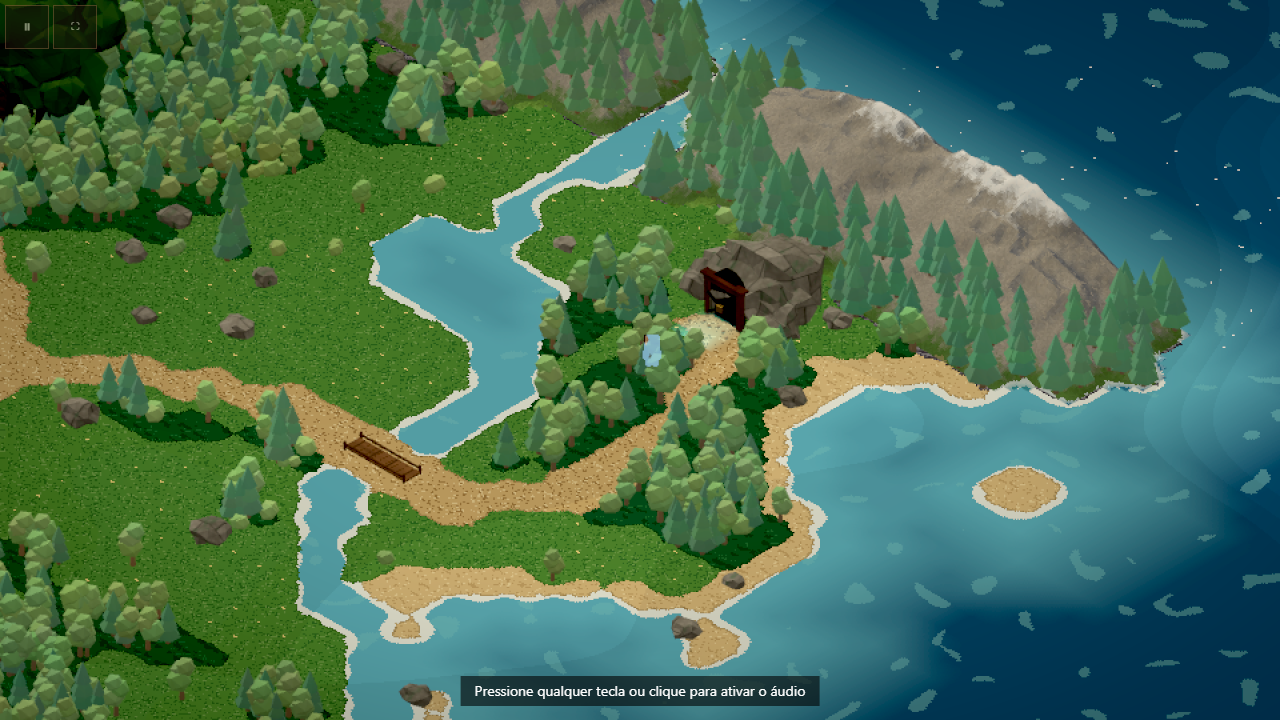
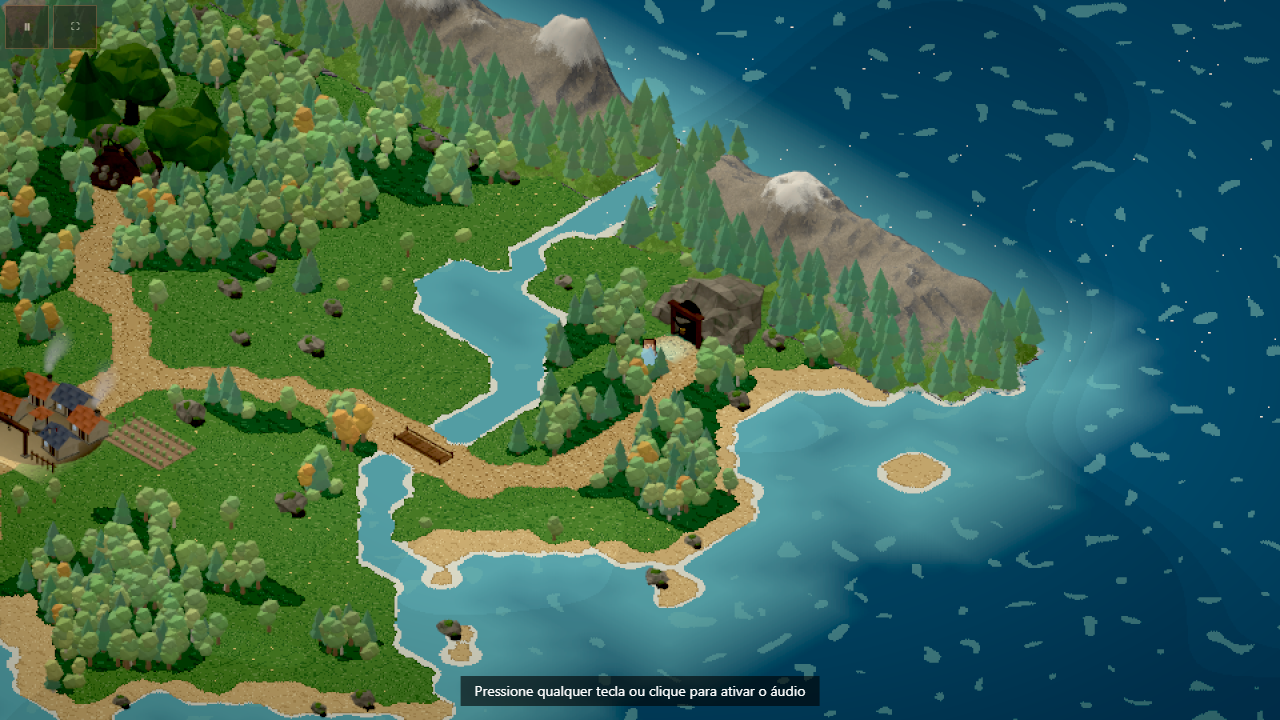
v0.1.3: refinos do mundo (campos de cultivo, rochas com musgo, moldura, bosque), docs de níveis do mundo

diff --git a/src/motor/terreno_mundo_relevo.js b/src/motor/terreno_mundo_relevo.js
@@ -88,7 +88,7 @@ export function gerarTerreno(mapaDados, cfgT = {}) {
     } else if (venc === 'montanha') {
       const h = alturaEm(x, z), luz = luzDe(x, z), estrato = Math.sin((h * 9 + fbm(x * 4, z * 4, semente + 40) * 3) * 3) * 0.05, rocha = tom(escolher(cores.rocha, fbm(x * 5, z * 5, semente + 41)), 1);
       const l = lim(0.5 + luz * 0.65 + estrato, 0, 1.05); cor = l > 0.5 ? misturar(rocha, cores.luz, (l - 0.5) * 1.5) : misturar(cores.sombra, rocha, l * 2);
-      const sopé = 1 - lim(h / (alturaMax * 0.2) + (fbm(x * 6, z * 6, semente + 42) - 0.5) * 0.7); if (sopé > 0.3) cor = misturar(cor, tom(cores.sopé, 0.8 + 0.3 * l), lim((sopé - 0.3) / 0.5));
+      const sopé = 1 - lim(h / (alturaMax * 0.34) + (fbm(x * 6, z * 6, semente + 42) - 0.5) * 0.6); if (sopé > 0.2) { const verde = misturar(tom(cores.sopé, 0.62), tom(escolher(cores.grama, fbm(x * 4, z * 4, semente + 44)), 1.08), lim(l * 1.1)); cor = misturar(cor, verde, lim((sopé - 0.2) / 0.35)); } // COLINAS: encosta baixa verde, redonda, com luz de forma
       const neve = (h - limiteNeve) / (alturaMax * 0.1) + (fbm(x * 7, z * 7, semente + 43) - 0.5) * 1.2; if (neve > 0) cor = misturar(cor, tom(cores.neve, 0.78 + 0.28 * lim(luz + 0.4)), lim(neve));
       cor = tom(cor, 0.96 + fino * 0.08);
     } else {
@@ -165,6 +165,44 @@ export function geometriaFloresta(posicoes) {
   const geo = new THREE.BufferGeometry(); geo.setAttribute('position', new THREE.Float32BufferAttribute(pos, 3)); geo.setAttribute('normal', new THREE.Float32BufferAttribute(nor, 3)); geo.setAttribute('color', new THREE.Float32BufferAttribute(cor, 3)); return geo;
 }
 
+
+// ----------------------------------------------------------------------------------------------------------------------------------------------
+/** Campos de cultivo (R12): até 3 canteiros de 3×2 tiles em grama plana perto da vila, com sulcos de terra e fileiras de plantas (trigo, repolho, abóbora). Não bloqueiam: ficam rente ao chão. */
+export function camposCultivo(t, vila, dens = 1) {
+  const { L, A, papelEm, semente } = t, pos = [], nor = [], cor = [], achados = [];
+  const livre = (x0, z0, w, d) => { for (let j = -1; j <= d; j++) for (let i = -1; i <= w; i++) { const p = papelEm(x0 + i, z0 + j); if (p !== 'grama') return false; } return true; };
+  for (let r = 4; r <= 9 && achados.length < Math.max(1, Math.round(3 * dens)); r++) for (let a = 0; a < 16 && achados.length < 3; a++) {
+    const ang = (a / 16) * Math.PI * 2 + r * 0.7, x0 = Math.round(vila.x + Math.cos(ang) * r) - 1, z0 = Math.round(vila.z + Math.sin(ang) * r * 0.8) - 1, w = a % 2 ? 3 : 2, d = a % 2 ? 2 : 3;
+    if (x0 < 1 || z0 < 1 || x0 + w >= L - 1 || z0 + d >= A - 1 || !livre(x0, z0, w, d) || achados.some((q) => Math.abs(q.x0 - x0) < 5 && Math.abs(q.z0 - z0) < 5)) continue;
+    achados.push({ x0, z0, w, d });
+  }
+  if (!achados.length) return null;
+  const caixa = (cx, cy, cz, sx, sy, sz, c) => { const g = new THREE.BoxGeometry(sx, sy, sz).translate(cx, cy, cz).toNonIndexed(); g.computeVertexNormals(); const p = g.attributes.position.array, n = g.attributes.normal.array; for (let i = 0; i < p.length; i += 3) { pos.push(p[i], p[i + 1], p[i + 2]); nor.push(n[i], n[i + 1], n[i + 2]); const k = 0.92 + (p[i + 1] - cy) / sy * 0.2; cor.push(c[0] * k, c[1] * k, c[2] * k); } g.dispose(); };
+  const CULT = [[0.9, 0.78, 0.3], [0.38, 0.62, 0.22], [0.9, 0.5, 0.15]];
+  achados.forEach((c, n) => {
+    const cult = CULT[n % CULT.length], alongaX = c.w >= c.d;
+    caixa(c.x0 + c.w / 2, 0.015, c.z0 + c.d / 2, c.w, 0.03, c.d, [0.45, 0.31, 0.2]); // terra arada
+    const linhas = alongaX ? c.d * 2 : c.w * 2;
+    for (let l = 0; l < linhas; l++) {
+      const off = (l + 0.5) / 2, passos = (alongaX ? c.w : c.d) * 3;
+      caixa(alongaX ? c.x0 + c.w / 2 : c.x0 + off, 0.045, alongaX ? c.z0 + off : c.z0 + c.d / 2, alongaX ? c.w - 0.1 : 0.12, 0.03, alongaX ? 0.12 : c.d - 0.1, [0.36, 0.24, 0.15]); // sulco
+      for (let k = 0; k < passos; k++) { const u = (k + 0.5) / 3, hh = 0.1 + hash(c.x0 + k, c.z0 + l, semente) * 0.1; caixa(alongaX ? c.x0 + u : c.x0 + off, 0.06 + hh / 2, alongaX ? c.z0 + off : c.z0 + u, 0.11, hh, 0.11, cult); }
+    }
+    const cx = c.x0 - 0.15, cz = c.z0 + c.d / 2; for (let k = 0; k < c.d * 2; k++) caixa(cx, 0.1, c.z0 + k / 2 + 0.2, 0.05, 0.2, 0.05, [0.4, 0.3, 0.2]); // estacas da cerca
+  });
+  const geo = new THREE.BufferGeometry(); geo.setAttribute('position', new THREE.Float32BufferAttribute(pos, 3)); geo.setAttribute('normal', new THREE.Float32BufferAttribute(nor, 3)); geo.setAttribute('color', new THREE.Float32BufferAttribute(cor, 3)); return geo;
+}
+
+/** Moldura (R14): anel de nuvens baixas fora do mapa, mais densas nos cantos, que esconde a borda seca do diorama. */
+export function geometriaMoldura(L, A, semente = 11) {
+  const pos = [], nor = [];
+  const nuvem = (cx, cz, e, y) => { for (let k = 0; k < 3; k++) { const g = new THREE.IcosahedronGeometry(e * (0.7 + 0.3 * hash(k, cx | 0, semente)), 0); g.scale(1.5, 0.45, 1.1); g.translate(cx + (k - 1) * e * 0.8, y + k * 0.03, cz + (hash(k, cz | 0, semente) - 0.5) * e); const ni = g.toNonIndexed(); ni.computeVertexNormals(); pos.push(...ni.attributes.position.array); nor.push(...ni.attributes.normal.array); g.dispose(); ni.dispose(); } };
+  const passo = 2.0; for (let camada = 0; camada < 2; camada++) { const f = camada * 1.4 + 1.6;
+    for (let x = -3; x <= L + 3; x += passo) { nuvem(x + hash(x, 1, semente) * 1.2, -f - hash(x, 2, semente) * 0.8, 1.4 + hash(x, 3, semente) * 0.6, 0.4 + camada * 0.15); nuvem(x + hash(x, 4, semente) * 1.2, A + f + hash(x, 5, semente) * 0.8, 1.4 + hash(x, 6, semente) * 0.6, 0.4 + camada * 0.15); }
+    for (let z = -1; z <= A + 1; z += passo) { nuvem(-f - hash(z, 7, semente) * 0.8, z + hash(z, 8, semente) * 1.2, 1.4 + hash(z, 9, semente) * 0.6, 0.4 + camada * 0.15); nuvem(L + f + hash(z, 10, semente) * 0.8, z + hash(z, 11, semente) * 1.2, 1.4 + hash(z, 12, semente) * 0.6, 0.4 + camada * 0.15); } }
+  const geo = new THREE.BufferGeometry(); geo.setAttribute('position', new THREE.Float32BufferAttribute(pos, 3)); geo.setAttribute('normal', new THREE.Float32BufferAttribute(nor, 3)); return geo;
+}
+
 // ----------------------------------------------------------------------------------------------------------------------------------------------
 const GLSL_RUIDO = `
 float h21(vec2 p){ return fract(sin(dot(p, vec2(127.1, 311.7))) * 43758.5453); }
@@ -215,8 +253,12 @@ export function criarRelevoMundo(mapaDados, cfgR = {}, opcoes = {}) {
     const matF = new THREE.MeshStandardMaterial({ vertexColors: true, roughness: 1, metalness: 0, flatShading: true }); aplicarEfeitos(matF, uniformes, { terreno: false });
     const f = new THREE.Mesh(geometriaFloresta(posicoesFloresta(t, { ...cfgR, densidade: (cfgR.densidade ?? 1) * (opcoes.densidade ?? 1), evitar: (mapaDados.objetos ?? []).filter((o) => RAIO_CLAREIRA[o.tipo]).map((o) => ({ x: o.x, z: o.z, r: RAIO_CLAREIRA[o.tipo] })) })), matF); f.name = 'floresta_mundo'; grupo.add(f);
   }
+  const vila = (mapaDados.objetos ?? []).find((o) => o.tipo === 'marcador_vila');
+  if (cfgR.campos !== false && vila) { const c = camposCultivo(t, vila, (cfgR.densidade ?? 1) * (opcoes.densidade ?? 1)); if (c) { const mc = new THREE.Mesh(c, new THREE.MeshStandardMaterial({ vertexColors: true, roughness: 1, flatShading: true })); mc.name = 'campos_mundo'; mc.receiveShadow = false; grupo.add(mc); } }
+  let nuvens = null; // moldura de nuvens: opcional (`cfg_mundo.relevo.moldura`), desligada por padrão
+  if (cfgR.moldura === true) {  nuvens = new THREE.Mesh(geometriaMoldura(L, A, t.semente), new THREE.MeshStandardMaterial({ color: 0xffffff, emissive: 0xb8c8d8, emissiveIntensity: 0.3, roughness: 1, flatShading: false, transparent: true, opacity: 0.15, depthWrite: false })); nuvens.name = 'moldura_mundo'; nuvens.renderOrder = 5; grupo.add(nuvens); }
   let parado = false, t0 = 0; const lerParado = () => parado || !!(typeof opcoes.reduzirMovimento === 'function' ? opcoes.reduzirMovimento() : opcoes.reduzirMovimento);
-  grupo.onBeforeRender = () => { if (!lerParado()) t0 = (typeof performance !== 'undefined' ? performance.now() : 0) / 1000; uniformes.uTempo.value = t0; };
+  grupo.onBeforeRender = () => { if (!lerParado()) t0 = (typeof performance !== 'undefined' ? performance.now() : 0) / 1000; uniformes.uTempo.value = t0; if (nuvens) { nuvens.position.x = Math.sin(t0 * 0.05) * 0.6; nuvens.position.z = Math.cos(t0 * 0.04) * 0.4; } };
   for (const m of grupo.children) m.onBeforeRender = grupo.onBeforeRender;
   return { malha: grupo, terreno: t, definirReduzirMovimento(b) { parado = !!b; } };
 }

diff --git a/src/motor/kit_mundo.js b/src/motor/kit_mundo.js
@@ -49,15 +49,18 @@ function marcadorVila(col, o, kit, saida) {
 
 /** Bosque: arco de árvores GIGANTES e clareira de entrada ao sul (+z); interditado: corrente e cadeado entre os troncos do arco e copas mais escuras. */
 function marcadorBosque(col, o) {
-  const a = ajudantes(col, o), r = rng(o.seed ?? 3), claro = o.interditado ? 0.3 : 0.45;
+  const a = ajudantes(col, o), r = rng(o.seed ?? 3), claro = o.interditado ? 0.55 : 0.75;
   a.g('terra_canteiro', new THREE.CylinderGeometry(1.5, 1.6, 0.04, 16), 0, 0.02, 1.0);
   const gigante = (lx, lz, k, tipo) => {
     const [x, z] = a.L(lx, lz), H = 1.7 * k; col.geo('casca', new THREE.CylinderGeometry(0.17 * k, 0.28 * k, H, 8), M4.clone().makeTranslation(x, H / 2, z));
     if (tipo === 'pinho') for (let i = 0; i < 4; i++) col.geo('folha_mundo', folhagemGeo(new THREE.ConeGeometry((1.05 - i * 0.2) * k, 0.9 * k, 8), null, 0.4, H * 1.5, Math.floor(r() * 1e6), 0.1 + claro * 0.5), M4.clone().makeTranslation(x, H * 0.55 + i * 0.5 * k, z), { escala: col.escalaUV * 0.5 });
     else for (const [dx, dy, rr] of [[0, 1.2, 0.95], [-0.7, 0.9, 0.7], [0.7, 0.9, 0.7], [0, 1.7, 0.7]]) folha(col, x + dx * k, H * 0.72 + dy * k * 0.5, z, rr * k, Math.floor(r() * 1e6), 0.1 + claro * r());
   };
-  gigante(-1.15, 0.9, 1.65, 'pinho'); gigante(1.15, 0.9, 1.65, 'carvalho'); gigante(-1.95, -0.2, 1.4, 'carvalho'); gigante(1.95, -0.15, 1.45, 'pinho'); gigante(-0.95, -1.25, 1.35, 'pinho'); gigante(0.95, -1.2, 1.4, 'carvalho');
-  gigante(-2.4, 1.3, 1.0, 'pinho'); gigante(2.4, 1.2, 1.05, 'carvalho'); // arco: o vão do meio fica livre, com a trilha de pedras
+  gigante(-2.6, 0.3, 1.3, 'pinho'); gigante(2.6, 0.3, 1.3, 'carvalho'); gigante(-1.9, -1.4, 1.2, 'carvalho'); gigante(1.9, -1.4, 1.2, 'pinho'); // fundo e flancos mais abertos: o arco do meio é o foco
+  // ARCO de raízes e galhos: meia-argola de casca sobre a trilha, hera clara e cortina de cipós; o interior luminoso lê como porta
+  a.g('pedra', new THREE.TorusGeometry(1.5, 0.3, 6, 16, Math.PI), 0, 0, 1.0); for (const sx of [-1, 1]) a.g('pedra', new THREE.CylinderGeometry(0.34, 0.44, 0.5, 6), sx * 1.5, 0.25, 1.0);
+  for (let i = 0; i <= 7; i++) { const ang = (i / 7) * Math.PI, [wx, wz] = a.L(Math.cos(ang) * 1.5, 1.0); folha(col, wx, Math.sin(ang) * 1.5 + 0.05, wz, 0.28 + r() * 0.1, Math.floor(r() * 1e6), 0.85); }
+  for (let i = 0; i < 6; i++) { const lx = -1.0 + i * 0.4, y = Math.sqrt(Math.max(0.05, 2.1 - lx * lx)); a.b('casca', lx, y - 0.25, 1.1, 0.05, 0.4 + r() * 0.2, 0.05); }
   for (let i = 0; i < 5; i++) a.g('pedra', new THREE.DodecahedronGeometry(0.13 + r() * 0.06, 0), -0.55 + i * 0.28 + r() * 0.1, 0.1, 1.6 + r() * 0.5); // trilha de pedras de entrada
   if (o.interditado) lacre(col, o, 0, 0.7, 0.95, 1.9, 0.7); else a.g('brilho_saida', new THREE.PlaneGeometry(2.6, 2.6).rotateX(-Math.PI / 2), 0, 0.06, 0.7, 0, 0, 0, { uv: false });
 }
@@ -89,7 +92,11 @@ function montanhaMundo(col, o) {
 }
 
 /** Rocha de mundo: um bloco arredondado. */
-function rochaMundo(col, o) { const r = rng(o.seed ?? 1), e = o.escala ?? 1, g = blobIco(0.4 * e, 1, Math.floor(r() * 1e6), 0.25); g.scale(1.2, 0.7, 1); col.geo('pedra', g, M4.clone().makeTranslation(o.x, 0.2 * e, o.z)); }
+function rochaMundo(col, o) {
+  const r = rng(o.seed ?? 1), e = o.escala ?? 1, g = blobIco(0.4 * e, 1, Math.floor(r() * 1e6), 0.25); g.scale(1.2, 0.7, 1); col.geo('pedra', g, M4.clone().makeTranslation(o.x, 0.2 * e, o.z));
+  const g2 = blobIco(0.22 * e, 1, Math.floor(r() * 1e6), 0.25); g2.scale(1.1, 0.7, 1); col.geo('pedra_negra', g2, M4.clone().makeTranslation(o.x + 0.42 * e, 0.1 * e, o.z + 0.12 * e));
+  folha(col, o.x - 0.05 * e, 0.3 * e, o.z, 0.24 * e, Math.floor(r() * 1e6), 0.8); folha(col, o.x + 0.4 * e, 0.17 * e, o.z + 0.12 * e, 0.13 * e, Math.floor(r() * 1e6), 0.8); // musgo
+}
 
 /** Ponte de mundo sobre água: `rot` 0 = atravessa em x, 90 = em z. Comprimento `w` (padrão 2). */
 function ponteMundo(col, o) {

diff --git a/docs/niveis/props_mundo_v013.md b/docs/niveis/props_mundo_v013.md
@@ -1,0 +1,54 @@
+# Props do mapa de mundo — v0.1.3 (14 → 07, D-048)
+
+Fonte: `tools/gerar_mundo.mjs`, que gera `data/maps/map_mundo_orvalho.json` (48 × 48, `tipo_mapa: mundo`, `versao: 2`) e o esboço `docs/niveis/esboco_mundo_v013.png`. Para regerar: `node tools/gerar_mundo.mjs`. Coordenadas em tiles, com `x` = leste e `z` = sul; `x, z` é o centro.
+
+**D-048:** floresta e montanhas **não são objetos**. O terreno 3D (`terreno_mundo_relevo.js`, do 07) as gera em massa sobre os tiles `mata_rala` e `montanha`. Por isso `arvore_mundo` e `montanha_mundo` saíram do mapa. Esses tipos continuam no kit, mas nenhum mapa os usa.
+
+## Terreno (legenda da planta)
+
+| Letra | Material | Bloqueia | Tiles |
+|---|---|---|---|
+| g | grama | não | 626 |
+| r | mata_rala (floresta em massa) | não | 445 |
+| e | estrada | não | 88 |
+| a | agua (mar, rio, lago) | sim | 662 |
+| n | montanha (serra) | sim | 374 |
+| p | areia (praia) | não | 109 |
+
+## Composição
+- **Costa:** a leste há 3 baías e ao sul 2. Uma praia de 1 a 2 tiles separa a terra do mar, e há 4 ilhotas.
+- **Serra:** cobre o norte e o oeste, colada à borda, e fecha o mapa.
+- **Lago e rio:**
+  - lago em (26, 13), alimentado por um córrego que desce da serra;
+  - o rio sai do lago, serpenteia até a foz a leste em (43, 31) e é cruzado por uma ponte.
+- **Florestas:** 5 massas com clareiras abertas por ruído, mais bosquetes soltos. A maior fica a oeste, em volta do bosque.
+- **Estradas:**
+  - vila → bosque (oeste);
+  - vila → ponte → caverna (norte);
+  - uma trilha curta da vila até a praia (sul).
+- **Clareiras dos marcadores:**
+  - a da vila tem raio 5;
+  - as do bosque e da caverna têm raio 2,6.
+
+## Objetos
+
+| ID | Tipo | Centro (x, z) | Pegada | Observação |
+|---|---|---|---|---|
+| `marcador_vila` | `marcador_vila` | 20, 30 | 2 × 2 | portal ativo para `map_baixo_orvalho` / `saida_sul` |
+| `marcador_bosque` | `marcador_bosque` | 10, 15 | 2 × 2 | `interditado`, com aviso `txt_mundo_marcador_bosque_aviso` |
+| `marcador_caverna` | `marcador_caverna` | 33, 8 | 2 × 2 | `interditado`, com aviso `txt_mundo_marcador_caverna_aviso` |
+| `ponte_rio` | `ponte_mundo` | 31, 21 | w 2,5, rot 0 | cobre 4 tiles de estrada sobre o rio; a colisão vem do tile |
+| `rocha_*` (34) | `rocha_mundo` | por semente | do kit | junto à serra, na praia rente ao mar e, raramente, na grama; nunca sobre estrada, clareira ou chegada |
+
+## Portais (ida e volta)
+
+| Portal | Gatilho | Destino | Chegada |
+|---|---|---|---|
+| `marcador_vila` (mundo) | 2 × 2 em (20, 30) | `map_baixo_orvalho` / `saida_sul` | (20, 32), virado para o sul |
+| `saida_sul` (vila) | 4 × 1 em (47, 79) | `map_mundo_orvalho` / `marcador_vila` | (47, 77), virado para o norte |
+| `marcador_bosque` | 2 × 2, inativo | `map_bosque_orvalho` / `entrada` | (10, 17) |
+| `marcador_caverna` | 2 × 2, inativo | `map_caverna_hollowpaw` / `entrada` | (33, 10) |
+
+Na vila, a saída sul ficou aberta: as toras do vão sul saíram e o portal está ativo. A saída norte continua fechada (portal inativo, só avisa).
+
+`inicio_jogador` do mundo fica em (20, 32), mas não é usado, porque o jogo começa na vila. `limites_camera` vai de [4, 4] a [40, 40].

diff --git a/docs/niveis/plano_teste_mundo_v013.md b/docs/niveis/plano_teste_mundo_v013.md
@@ -1,0 +1,27 @@
+# Plano de teste do mapa de mundo — v0.1.3 (D-045, D-048)
+
+Dono dos dados: 14. As regras rodam em `npm run validar` (`tools/validar_dados.mjs` + `tools/lib/validar_mapas_ligados.mjs`) e em `npm test`. Para gerar os dados: `node tools/gerar_mundo.mjs` (mundo) e `node tools/gerar_vila.mjs` (vila, por causa da saída sul).
+
+| # | Regra | Como é conferida | Onde |
+|---|---|---|---|
+| 1 | `tipo_mapa: mundo`, planta 48 × 48 e só materiais da legenda do esquema (grama, mata_rala, estrada, agua, montanha, areia) | esquema | validar |
+| 2 | `solidos` = agua e montanha. Mar, rio, lago e serra bloqueiam; mata, praia e estrada não | esquema + colisão de `mapa.js` | validar + test |
+| 3 | Sem `arvore_mundo` nem `montanha_mundo` no mapa (D-048). Os objetos são só `marcador_*`, `ponte_mundo` e `rocha_mundo` | gerador + checagem do 14 (lista de tipos) | gerador |
+| 4 | Ida e volta: `marcador_vila` ↔ `saida_sul` da vila, ambos ativos | validador ("sem volta") | validar |
+| 5 | As chegadas dos 3 marcadores e da `saida_sul` caem fora de colisão e fora do próprio gatilho | validador + checagem do 14 | validar |
+| 6 | Bosque e caverna: portal `ativo: false`, objeto `interditado`, `nome_txt` e `aviso_txt` existentes na tabela de textos | validador (texto inexistente) | validar |
+| 7 | Os 3 marcadores e a ponte são alcançáveis a pé a partir da chegada da vila (grade de 0,5 tile, raio do herói, colisão real) | validador + checagem do 14 | validar |
+| 8 | Ninguém chega à borda do mapa: o mar e a serra fecham os quatro lados | checagem do 14 (busca não alcança x/z 0 nem 47) | gerador |
+| 9 | Rochas nunca sobre estrada, ponte, clareira de marcador ou chegada | por construção no gerador + regra 7 | gerador |
+| 10 | Sem encontros, NPCs nem baús no mundo (v0.1.5 trará encontros) | não existe arquivo de zonas para o mundo | validar |
+| 11 | O jogo começa na vila: o mundo não é o mapa inicial | `mundo.js` escolhe o primeiro mapa `exterior` | test |
+
+## No navegador (manual, 09)
+
+1. Sair da vila pelo vão sul. O herói de mundo deve aparecer ao sul do marcador da vila, virado para o sul, e aparece o banner "Campos de Baixo Orvalho".
+2. Voltar ao marcador da vila. O herói deve entrar na vila no vão sul, virado para o norte, fora do gatilho.
+3. Ir aos marcadores do bosque e da caverna: só aparece o aviso, sem troca de mapa. Ao aproximar, aparece o nome do marcador.
+4. Seguir as 3 estradas até o fim. A ponte deve ser atravessável, e o rio, o lago e o mar devem bloquear.
+5. Andar rente à costa e à serra nos quatro lados: não há saída pela borda nem borda vazia na tela.
+6. Andar dentro das massas de floresta: o herói passa (mata não bloqueia) e não fica preso entre árvores e rochas.
+7. Medir FPS nos perfis alto, médio e baixo e no celular (meta: 60 fps; pior 1 % ≥ 45).

diff --git a/docs/arte/mapa_de_mundo.md b/docs/arte/mapa_de_mundo.md
@@ -339,3 +339,17 @@ Capturas: `mundo_vila.png`, `mundo_bosque.png`, `mundo_caverna.png` (câmera 26 
 **P2 (já pedido, em ordem):** R7 cordilheira (a montanha ainda é uma encosta lisa com neve só na crista), R8 brilhos alongados na água, R12 variedade (bétula, outono, rochas com musgo, cultivo), R13 colinas, R14 moldura; **fim de tarde** com luz dourada e sombras longas (hoje só escurece); ponte com tabuado e sombra na água.
 
 **Atualização (2026-11-03, 08):** o 08 já aplicou `pixels_por_unidade` = 20 e `escala_mundo` do herói = 1,5 (pendência **R6** atendida; falta eu ver a captura) e confirmou o terreno em shader com fronteira orgânica por campo de pesos + ruído + contorno fino, também na mata. Restam as pendências (b) bosque legível e (c) faixa diagonal e "estrelas" na água.
+
+## 17. Parecer final do visual (10, 2026-11-03) — **APROVADO COM RESSALVAS**
+
+Base: capturas `mundo_n14_vila.png` e `mundo_n14_bosque.png` (câmera isométrica, ppu 20, `paleta_mundo.json` em `cfg_mundo.json`). Doc ajustado à isométrica (D-048) e à paleta realmente usada.
+
+**Aprovado:** composição (ilha, costa recortada, rio com ponte, lago, estrada), florestas em massa com copas sobrepostas, cordilheira com neve e sombra, bordas orgânicas do terreno, marcadores com leitura de forma, paleta (validada em 3 modos de daltonismo).
+
+**Ressalvas (não bloqueiam a v0.1.3; vão para P2/polimento):**
+1. **Marcadores escuros:** a caverna e o marcador à direita ainda leem como mancha preta (R1). Pedir tom `rocha`/`sombra_mundo` com contorno claro e boca com `sino_aqua`.
+2. **Espuma/"neve" na água:** os flocos claros repetidos por todo o mar parecem ruído; reduzir densidade e opacidade, deixar espuma só junto da costa, e remover pontos tipo "estrela".
+3. **Herói:** ainda pequeno nestas capturas (verificar a escala 20 ppu × 1,5 em jogo e manter halo/contorno).
+4. **Mar fora da ilha:** plano e escuro; adicionar gradiente de profundidade, névoa de horizonte e moldura (R14).
+5. **Grama:** verde muito saturado e uniforme; aplicar manchas de prado seco/flores (R2/R12).
+6. **Costa em degraus:** o "diamante" de água rasa denuncia a grade; suavizar com o mesmo campo de pesos do terreno.

diff --git a/docs/niveis/mundo_item_modelo_v013b.md b/docs/niveis/mundo_item_modelo_v013b.md
@@ -1,5 +1,7 @@
 # Item-modelo do mapa de mundo — planta 12×12 (14, D-046)
 
+> **Obsoleto (D-048):** o usuário aprovou o mundo isométrico 3D denso. Esta planta 12×12 com câmera 2D não será usada; o mapa vigente está em `props_mundo_v013.md`.
+
 Planta do 14 a partir da sugestão do 10 (`docs/arte/mapa_de_mundo.md` §11.1) e das respostas dele: 32 px/tile, câmera ≈ 30×17 tiles, marcadores 3×3, clareira da vila de ~7×7 com a estrada saindo pelo sul e ponte 3×1.
 
 - **Dados:** `tools/lib/mundo_item_modelo.mjs`, que exporta:
